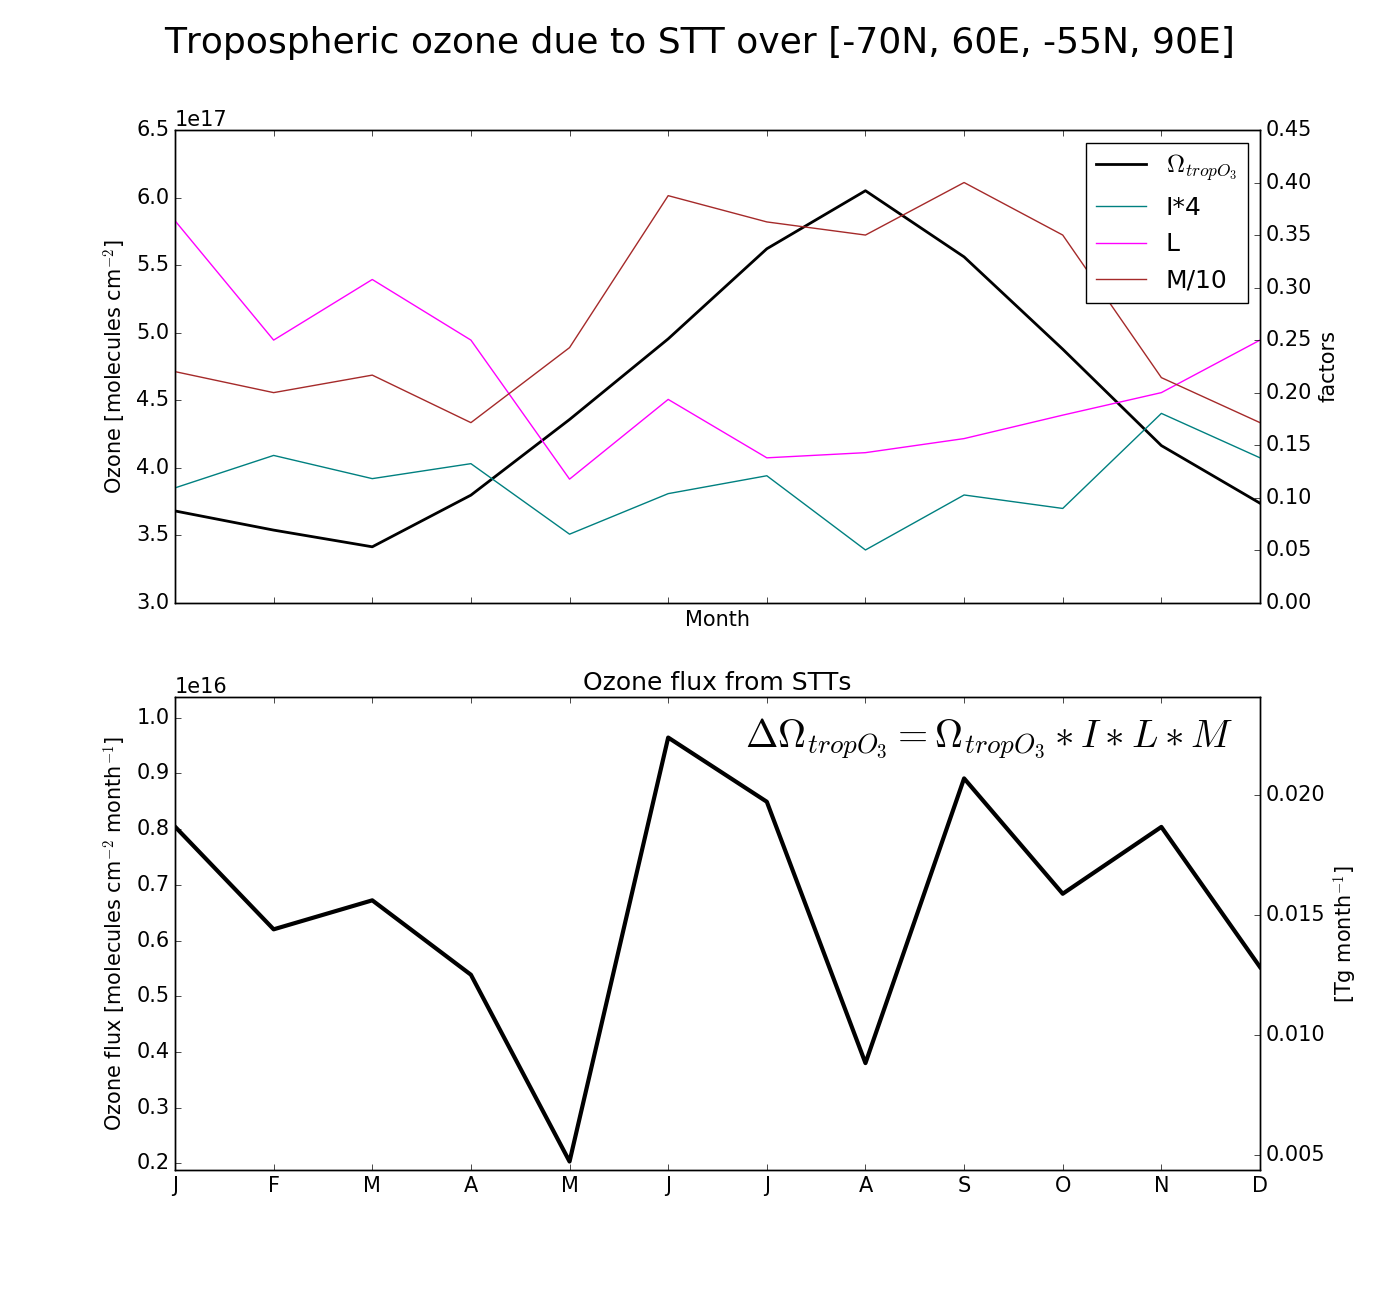
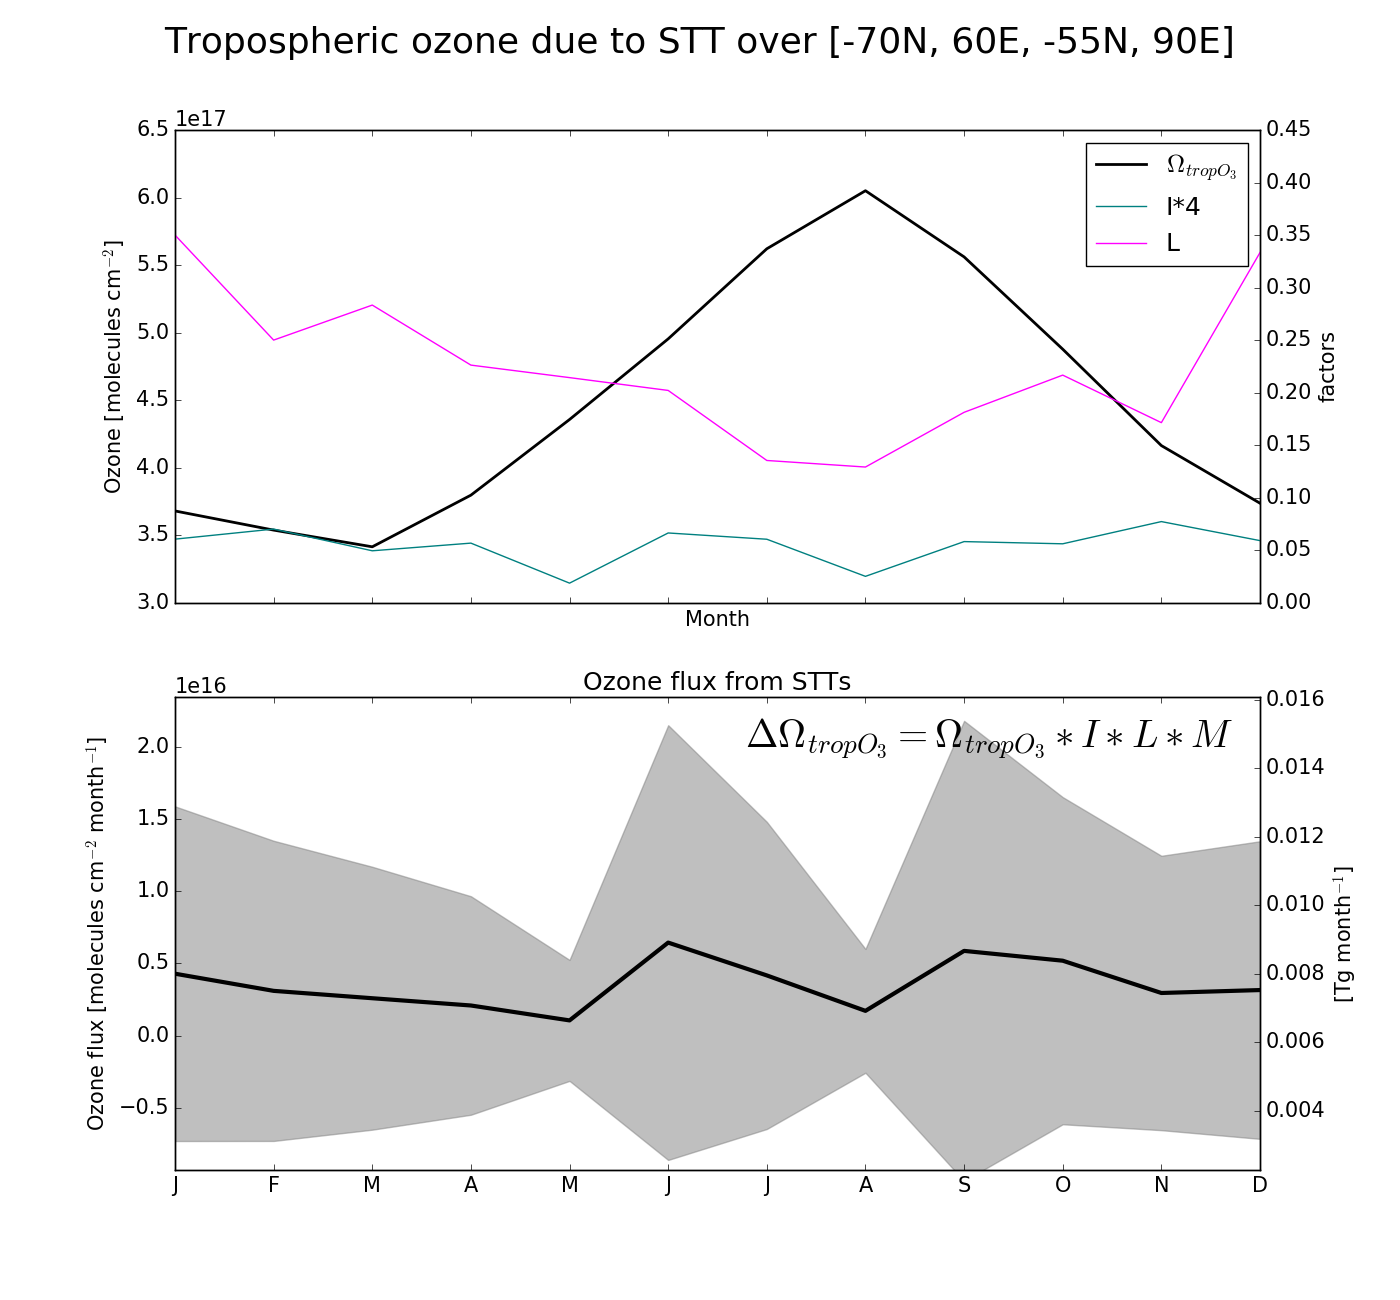
Uncertainty/Bracket extrapolation methods implemented and plotted

diff --git a/examine_stations.py b/examine_stations.py
@@ -409,6 +409,8 @@ def STT_extrapolation(Region):
     # monthly (I)mpact (event O3 / trop O3):
     # Events per measurement or (L)ikelihood:
     # (M)easurements per month
+    # (T)ropO3
+    ILMT = np.zeros([4,12,n_s])
     
     # Std_deviation of each factor
     ILMT_stdev=np.zeros([4,12,n_s]) 
@@ -424,162 +426,106 @@ def STT_extrapolation(Region):
         # How many of each month do the measurements span?
         n_months_check = np.array([len(set([date.year for date in os.dates if date.month == month])) for month in np.arange(1,12.1)])
         
-        ILMT=np.ndarray([4,12,n_years]) +np.NaN# factors for each month each year
+        ILMTi=np.ndarray([4,12,n_years]) +np.NaN# factors for each month each year
         
         # for each year
         for yi,year in enumerate(set(allyears)):
             # for each month
             for mi in range(12):
                 inds=(allmonths == mi+1) * (allyears == year)
+                n_m=np.sum(inds) # number of measurements
                 einds=(alleventsmonths == mi+1) * (alleventsyears == year)
-                if np.sum(inds)==0: 
+                n_e=np.sum(einds) # number of event detections
+                if n_m==0: 
                     if __DEBUG__: 
                         print("%s has no measurements on %d-%d"%(os.name,year,mi+1))
                     continue # no measuremets this month & year
-                ILMT[2,mi,yi] = np.sum(inds) # count of this months measurements
-                ILMT[0,mi,yi] = 0.0 # Impact
-                ILMT[1,mi,yi] = 0.0 # Likelihood
-                if np.sum(einds) != 0:
-                    ILMT[0,mi,yi] = np.mean(np.array(os.eflux)[einds]/np.array(os.etropvc)[einds]) # Impact
-                    ILMT[1,mi,yi] = len(einds)/ float(len(inds)) # Likelihood of event per measurement
-            ILMT[3,:,yi]=TropO3
-            
-            # Divide monthly measurements by how many of each month there are
-            ILMT[2,:,yi]=ILMT[2,:,yi]/n_months_check.astype(float)
+                ILMTi[2,mi,yi] = n_m # count of this months measurements
+                ILMTi[0,mi,yi] = 0.0 # Impact
+                ILMTi[1,mi,yi] = 0.0 # Likelihood
+                if n_e != 0:
+                    ILMTi[0,mi,yi] = np.mean(np.array(os.eflux)[einds]/np.array(os.etropvc)[einds]) # Impact
+                    ILMTi[1,mi,yi] = n_e / float(n_m) # Likelihood of event per measurement
+            ILMTi[3,:,yi]=TropO3
+        # end of year loop
+        
+        # take multiyear monthly average
+        ILMT[:,:,ii]=np.nanmean(ILMTi,axis=2) 
         
         # get the stdev
-        ILMT_stdev[:,:,ii]=np.nanstd(ILMT,axis=2)
+        ILMT_stdev[:,:,ii]=np.nanstd(ILMTi,axis=2)
         ILMT_stdev[3,:,ii]=TropO3_stdev
-        
         
         if __DEBUG__:
             print("%s spans this many of each month:"%(os.name))
             print(n_months_check)
-        
-        ILMT=np.nanmean(ILMT,axis=2) # take multiyear monthly average
-        
-        if __DEBUG__:
             print("With this many measurements per month:")
             print(ILMT[2,:,ii])
+            print("With these likelihoods of event detection:")
+            print(ILMT[1,:,ii])
+    # end of sites loop
     
     ## Now we take the average between the sites
     #
+    ILMT=np.mean(ILMT, axis=2) # Average between sondes
+    flux = np.nanprod(ILMT,axis=0)
     
     # uncertainty reduced by root of independent measurement count
     # assume each sonde site is independent
     ILMT_stdev=np.nanmean(ILMT_stdev,axis=2) / np.sqrt(n_s) 
+    
     # proportional uncertainty
-    uncertainty= ILMT_stdev * 100.0 / ILMT
+    uncertainty = ILMT_stdev / ILMT # [4,12]
+    flux_uncertainty = np.nansum(uncertainty,axis=0) # sum of factor proportional uncertainties
+    flux_range = np.zeros([2,12])
+    flux_range[0,:] = flux * (1-flux_uncertainty)
+    flux_range[1,:] = flux * (1+flux_uncertainty)
     
-    ILMT=np.mean(ILMT, axis=2) # Average between sondes
+    if __DEBUG__: 
+        print("ILMT_stdev %s:"%str(ILMT_stdev.shape))
+        print (ILMT_stdev)
+        print("flux uncertainty:")
+        print (flux_uncertainty)
+        print("flux_range:")
+        for jj in range(12):
+            print("%d: %.2e"%(jj+1,flux_range[1,jj]-flux_range[0,jj]))
     
-    flux = np.nanprod(ILMT,axis=0)
-    return ILMT, flux, uncertainty
+    return ILMT, flux, flux_range
 
-def STT_extrapolation_noSTD(Region):
+def STT_extrapolation_bracketed(Region):
     '''
     Estimate STT flux in a particular region
     Region: [S ,W ,N ,E]
-    Returns: I, L, M, TropO3, Flux
-        I, L, M are mean measured monthly (I)mpact, (L)ikelihood, and (M)easurement count
-        TropO3 is GEOS-Chem tropospheric ozone column, Flux is these 4 factors multiplied,
-        std_dev_ILMT is std deviation of each factor
+    Using ILMT from STT_extrapolation function, replacing M with a range 
+        from 4-30 to give us an STT flux bracket
+    Returns: ILT, flux, flux_range
     '''
-    # Read sondes data
-    all_sonde_files=[fio.read_sonde(s) for s in range(3)]
+    ILMT, flux, flux_range = STT_extrapolation(Region)
+    ILT = ILMT[[0,1,3],:]
+    flux = 17.0 * np.nanprod(ILT,axis=0)
+    flux_range[0,:] = 4.0 * flux
+    flux_range[1,:] = 30.0 * flux
     
-    # we only use sondes within extrapolation region...
-    def in_region(lat,lon):
-        return ((lat<Region[2])*(lat>Region[0])*(lon>Region[1])*(lon<Region[3]))
-    sonde_files = [sf for sf in all_sonde_files if in_region(sf.lat,sf.lon)]
-    if __DEBUG__:
-        print("STT_Extrapolation")
-        print(Region)
-        print("Contains sites:")
-        print([s.name for s in sonde_files])
-    
-    # How many sondes have we:
-    n_s=len(sonde_files)
+    return ILT, flux, flux_range
 
-    # monthly (I)mpact (event O3 / trop O3):
-    I=np.zeros([12,n_s])    
-    # Events per measurement or (L)ikelihood:
-    L=np.zeros([12,n_s])
-    # (M)easurements per month
-    M=np.zeros([12,n_s])
-    # how many of each month does each site have measurements for:
-    n_months=np.zeros([12,n_s])
-    n_months2=np.zeros([12,n_s])
-    
-    # Std_deviation of each factor
-    std_dev_ILMT=np.zeros([4,12,n_s]) 
-    
-    # for each site:
-    for ii, os in enumerate(sonde_files):
-        # indices of all events and all sondes within this month
-        allyears=np.array([ d.year for d in os.dates ])
-        allmonths=np.array([ d.month for d in os.dates ])
-        alleventsmonths=np.array([ d.month for d in os.edates ])
-        
-        n_releases=[[] for jj in range(12)]
-        # for each year
-        for year in set(allyears):
-            # add month counts
-            for month in range(12)+1:
-                inds= (allyears==year) * (allmonths==month)
-                if np.sum(inds)==0: continue
-                n_releases[month-1].append(np.sum(inds))
-        std_dev_ILMT[2,:,ii] = np.array([np.std(n_releases[jj]) for jj in range(12)])
-        
-        n_months[:,ii] = [len(n_releases[jj]) for jj in range(12)]
-        # this works but we want the std. deviation...
-        n_months2[:,ii] = [len(set([date.year for date in os.dates if date.month == month])) for month in np.arange(1,12.1)]
-        
-        if __DEBUG__:
-            assert n_months[:,ii] == n_months2[:, ii], (n_months[:,ii],n_months2[:,ii])
-            print("%s has this many of each month:"%(os.name))
-            print(n_months[:,ii])
-        
-        # for each month
-        I_month=np.array(os.eflux)/np.array(os.etropvc)
-        for month in range(12):
-            inds=np.where(allmonths == month+1)[0]
-            einds=np.where(alleventsmonths == month+1)[0]
-            # Likelihood of event per measurement
-            L[month,ii] = len(einds)/ float(len(inds))
-            std_dev_ILMT[1,month,ii] = np.std()
-            # Measurements per month:
-            M[month,ii] = len(inds)/float(n_months[month,ii])
-            # Flux pct per month
-            if len(einds) != 0:
-                I[month,ii] = np.mean(I_month[einds])
-        if __DEBUG__:
-            print("And this many measurements per month:")
-            print(M[:,ii])
-        
-    # model SO tropospheric O3 Column:
-    GCData=fio.read_GC_global()
-    TropO3=GCData.averagedTVC(Region)
-    
-    # plot estimated flux on left hand axis
-    # plot likelihoods and flux pct on the right hand axis
-    mean_I=np.mean(I, axis=1) # impact proportion
-    mean_L=np.mean(L, axis=1) # events per sonde
-    mean_M=np.mean(M, axis=1) # sondes per month
-    flux = TropO3 * mean_I * mean_L * mean_M
-    return mean_I, mean_L, mean_M, flux, TropO3
-
-def plot_extrapolation(Region, pltname='images/STT_extrapolation.png', measurementbracket=False):
+def plot_extrapolation(Region, pltname='images/STT_extrapolation.png', Bracketed=False):
     '''
     Plot estimate of STT flux in some particular region
     Region: [S ,W ,N ,E]
     '''
+    
     X=range(12)
-    ILMT, flux, uncertainty = STT_extrapolation(Region)
+    if Bracketed:
+        ILMT, flux, flux_range = STT_extrapolation(Region)
+        M=np.repeat(17.0,repeats=12)
+        GCTropO3=ILMT[2,:]
+    else:
+        ILMT, flux, flux_range = STT_extrapolation(Region)
+        M=ILMT[2,:]
+        GCTropO3=ILMT[3,:]
     I=ILMT[0,:]
-    L=ILMT[0,:]
-    M=ILMT[0,:]
-    GCTropO3=ILMT[0,:]
+    L=ILMT[1,:]
+    flux_error=flux_range[0,:]-flux
     
     # conversion to Tg/yr:
     gca=fio.get_GC_area()
@@ -596,23 +542,33 @@ def plot_extrapolation(Region, pltname='images/STT_extrapolation.png', measureme
     print("This occurs over %5.3e km2"%(so_area/1e6))
     
     # set ylimits for plot
-    ylim0, ylim1=0.925*np.min(flux), 1.075*np.max(flux)
+    ylim0, ylim1=0.925*np.min(flux_range), 1.075*np.max(flux_range)
     ylim0tg, ylim1tg = 0.925*np.min(Tg_per_month), 1.075*np.max(Tg_per_month)
     
     # Plot the flux and the factors which are used to calculate it
+    # set up plot and axes
     plt.clf()
     fig, axes=plt.subplots(nrows=2,ncols=1,sharex=True,figsize=(14,13))
     plt.sca(axes[1])
+    
+    # plot the flux line:
     plt.plot(X,flux, color='black', linewidth=3, label="STT Flux")
+    # plot errorbars
+    #plt.errorbar(X, flux, yerr=flux_error, linestyle="None", marker="None", color="k")
+    plt.fill_between(X, flux_range[0,:], flux_range[1,:], color='grey', alpha='0.5')
+    
+    # plot limits, title, and labels
     plt.title("Ozone flux from STTs")
     plt.ylabel('Ozone flux [molecules cm$^{-2}$ month$^{-1}$]')
     plt.ylim([ylim0, ylim1])
+    # second plot axes for other dimension
     rax=plt.twinx()
     rax.set_ylim([ylim0tg,ylim1tg])
-    rax.set_ylabel('[Tg month$^{-1}$]')
+    rax.set_ylabel('[Tg month$^{-1}$]')    
     # chuck formula onto plot
     plt.text(0.525,0.895,r'$\Delta \Omega_{trop O_3} = \Omega_{trop O_3} * I * L * M$', fontsize=28, transform = rax.transAxes)
     
+    # plot factors on seperate subplot
     ax=axes[0]
     plt.sca(ax)
     l1=plt.plot(X, GCTropO3, 'k', linewidth=2, label="$\Omega_{trop O_3}$")
@@ -627,13 +583,13 @@ def plot_extrapolation(Region, pltname='images/STT_extrapolation.png', measureme
     # likelihood pct * pct contribution
     l2=newax.plot(X,I*4, color='teal', label='I*4')
     l3=newax.plot(X,L, color='magenta', label='L')
-    l4=newax.plot(X,M/10.0, color='brown', label='M/10')
+    # l4=newax.plot(X,M/20.0, color='brown', label='M/20')
     
     # axes and legends
     #newax.legend(loc=1)
     newax.set_ylabel('factors')
     newax.set_ylim([0,0.45])
-    lns=l1+l2+l3+l4
+    lns=l1+l2+l3#+l4
     plt.legend(lns,[ln.get_label() for ln in lns], loc=0)
     sreg="[%dN, %dE, %dN, %dE]"%(Region[0],Region[1],Region[2],Region[3])
     plt.suptitle('Tropospheric ozone due to STT over %s'%sreg,fontsize=26)
@@ -662,7 +618,6 @@ def plot_extrapolation(Region, pltname='images/STT_extrapolation.png', measureme
     #    plt.title("Monthly flux over %s"%sreg)
     #    plt.savefig("images/STT_extrap_temp.png")
     
-    # TODO: abs/relative uncertainties from standard deviations and add these units/uncertainties to prior plot
 
 def SO_extrapolation(north=-35,south=-75):
     '''
@@ -1590,12 +1545,14 @@ if __name__ == "__main__":
     #event_profiles_best()
     #plot_andrew_STT()
     #check_extrapolation()
-    plot_SO_extrapolation()
+    #plot_SO_extrapolation()
     # N W S E regions:
     Region1=[-60, 140, -35, 165] # region for Melb and Macca
     Region2=[-70, 60, -55, 90] # region for Davis
     plot_extrapolation(Region1,pltname='images/STT_extrapolation_MelbMac.png')
     plot_extrapolation(Region2,pltname='images/STT_extrapolation_Dav.png')
+    plot_extrapolation(Region1,pltname='images/STT_extrapolation_MelbMac_B.png',Bracketed=True)
+    plot_extrapolation(Region2,pltname='images/STT_extrapolation_Dav_B.png',Bracketed=True)
     #check_weird_tp(2006)# look at profile of low tp sondes
     #seasonal_tropopause(shading=False) # plot tpheights.png
     #seasonal_tropozone() # plot seasonaltropozone.png
